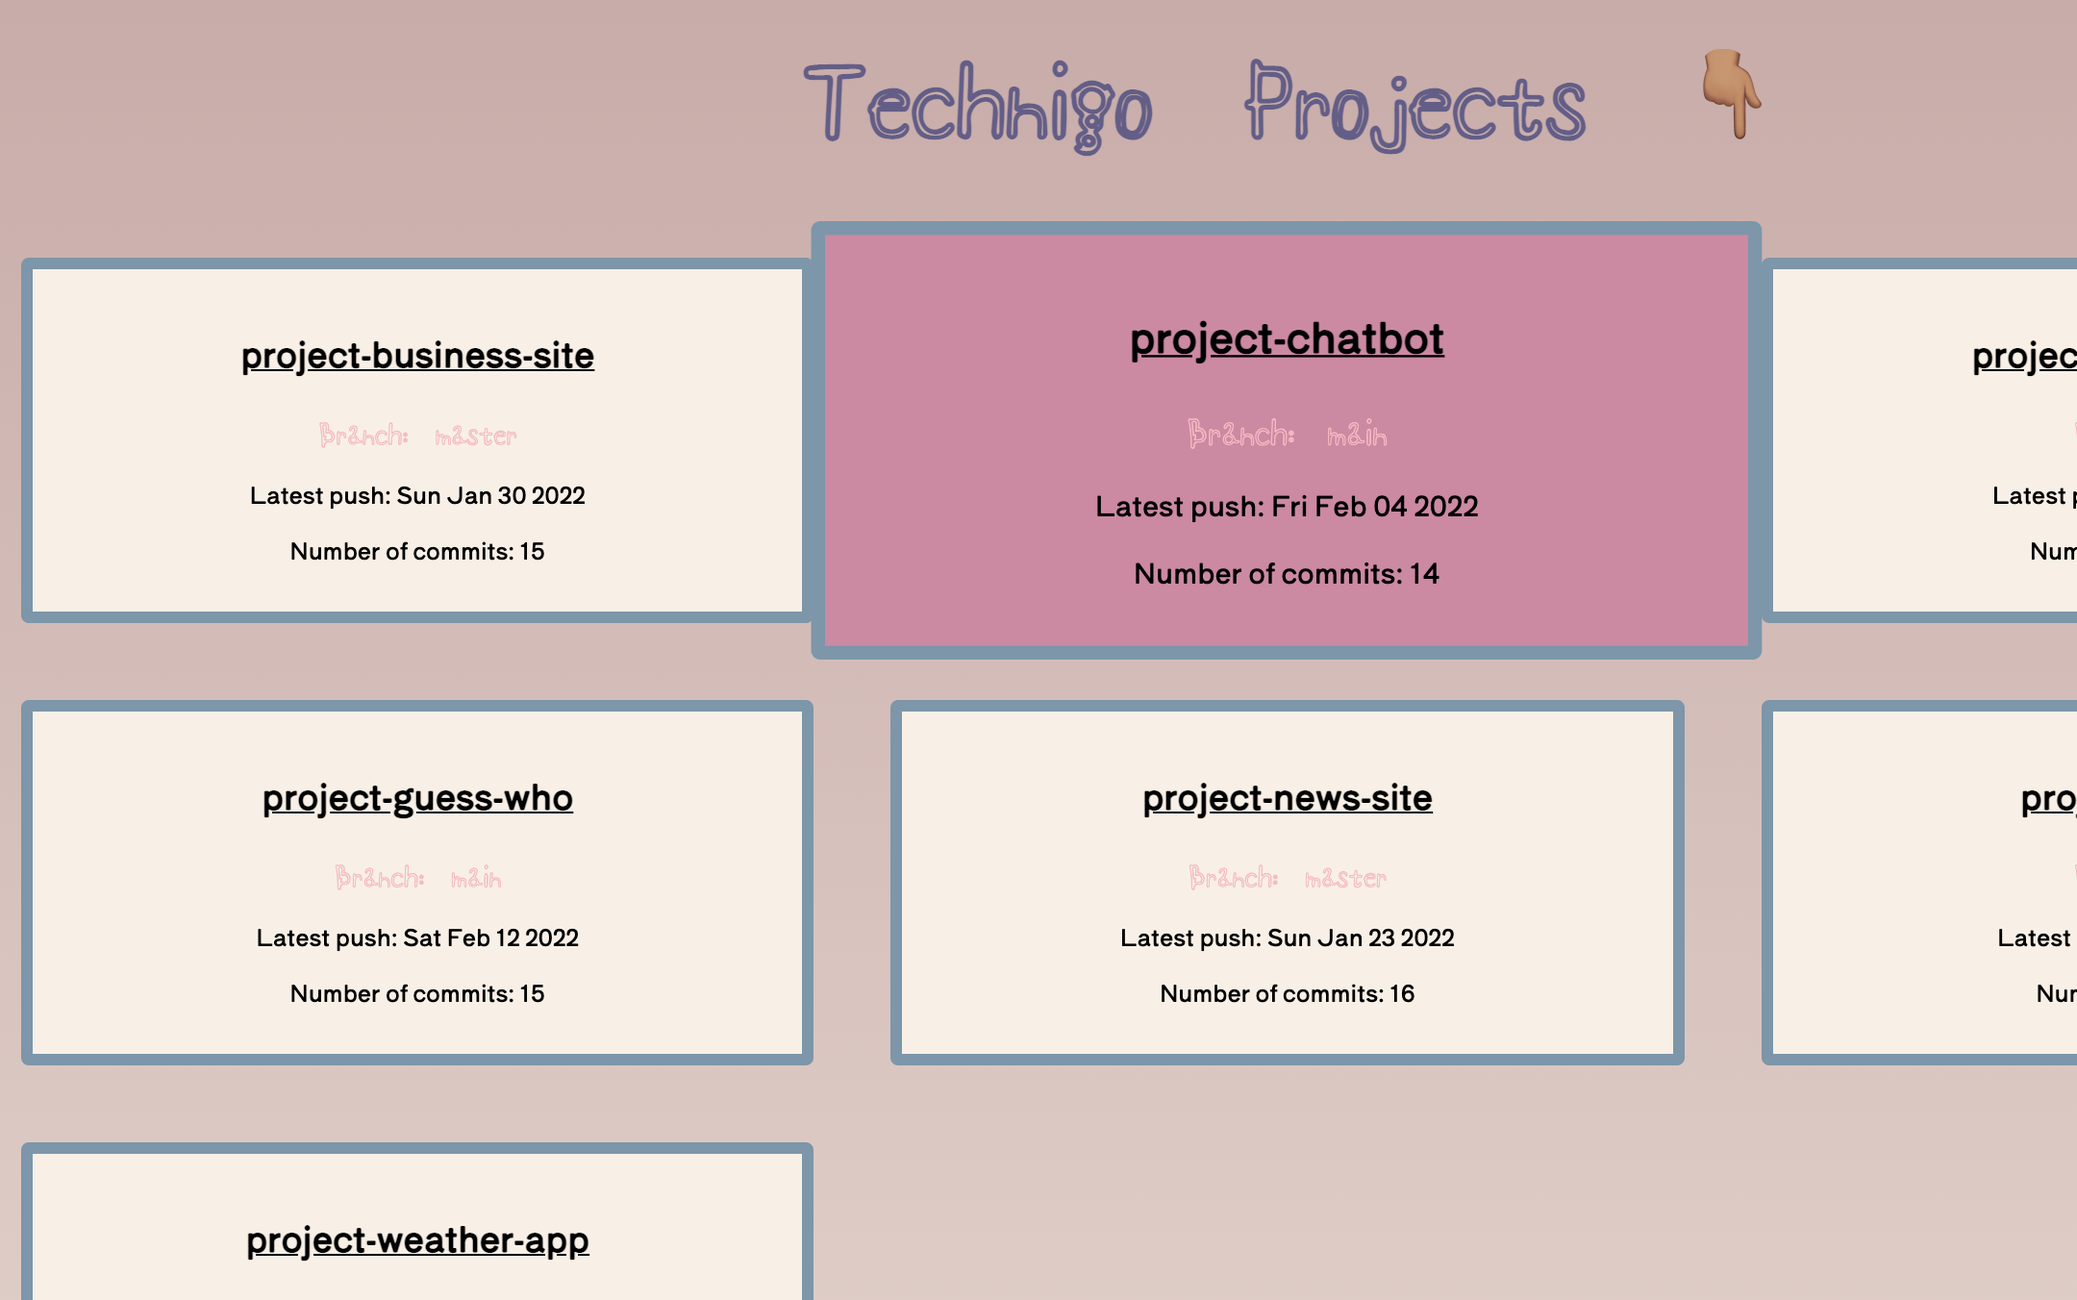
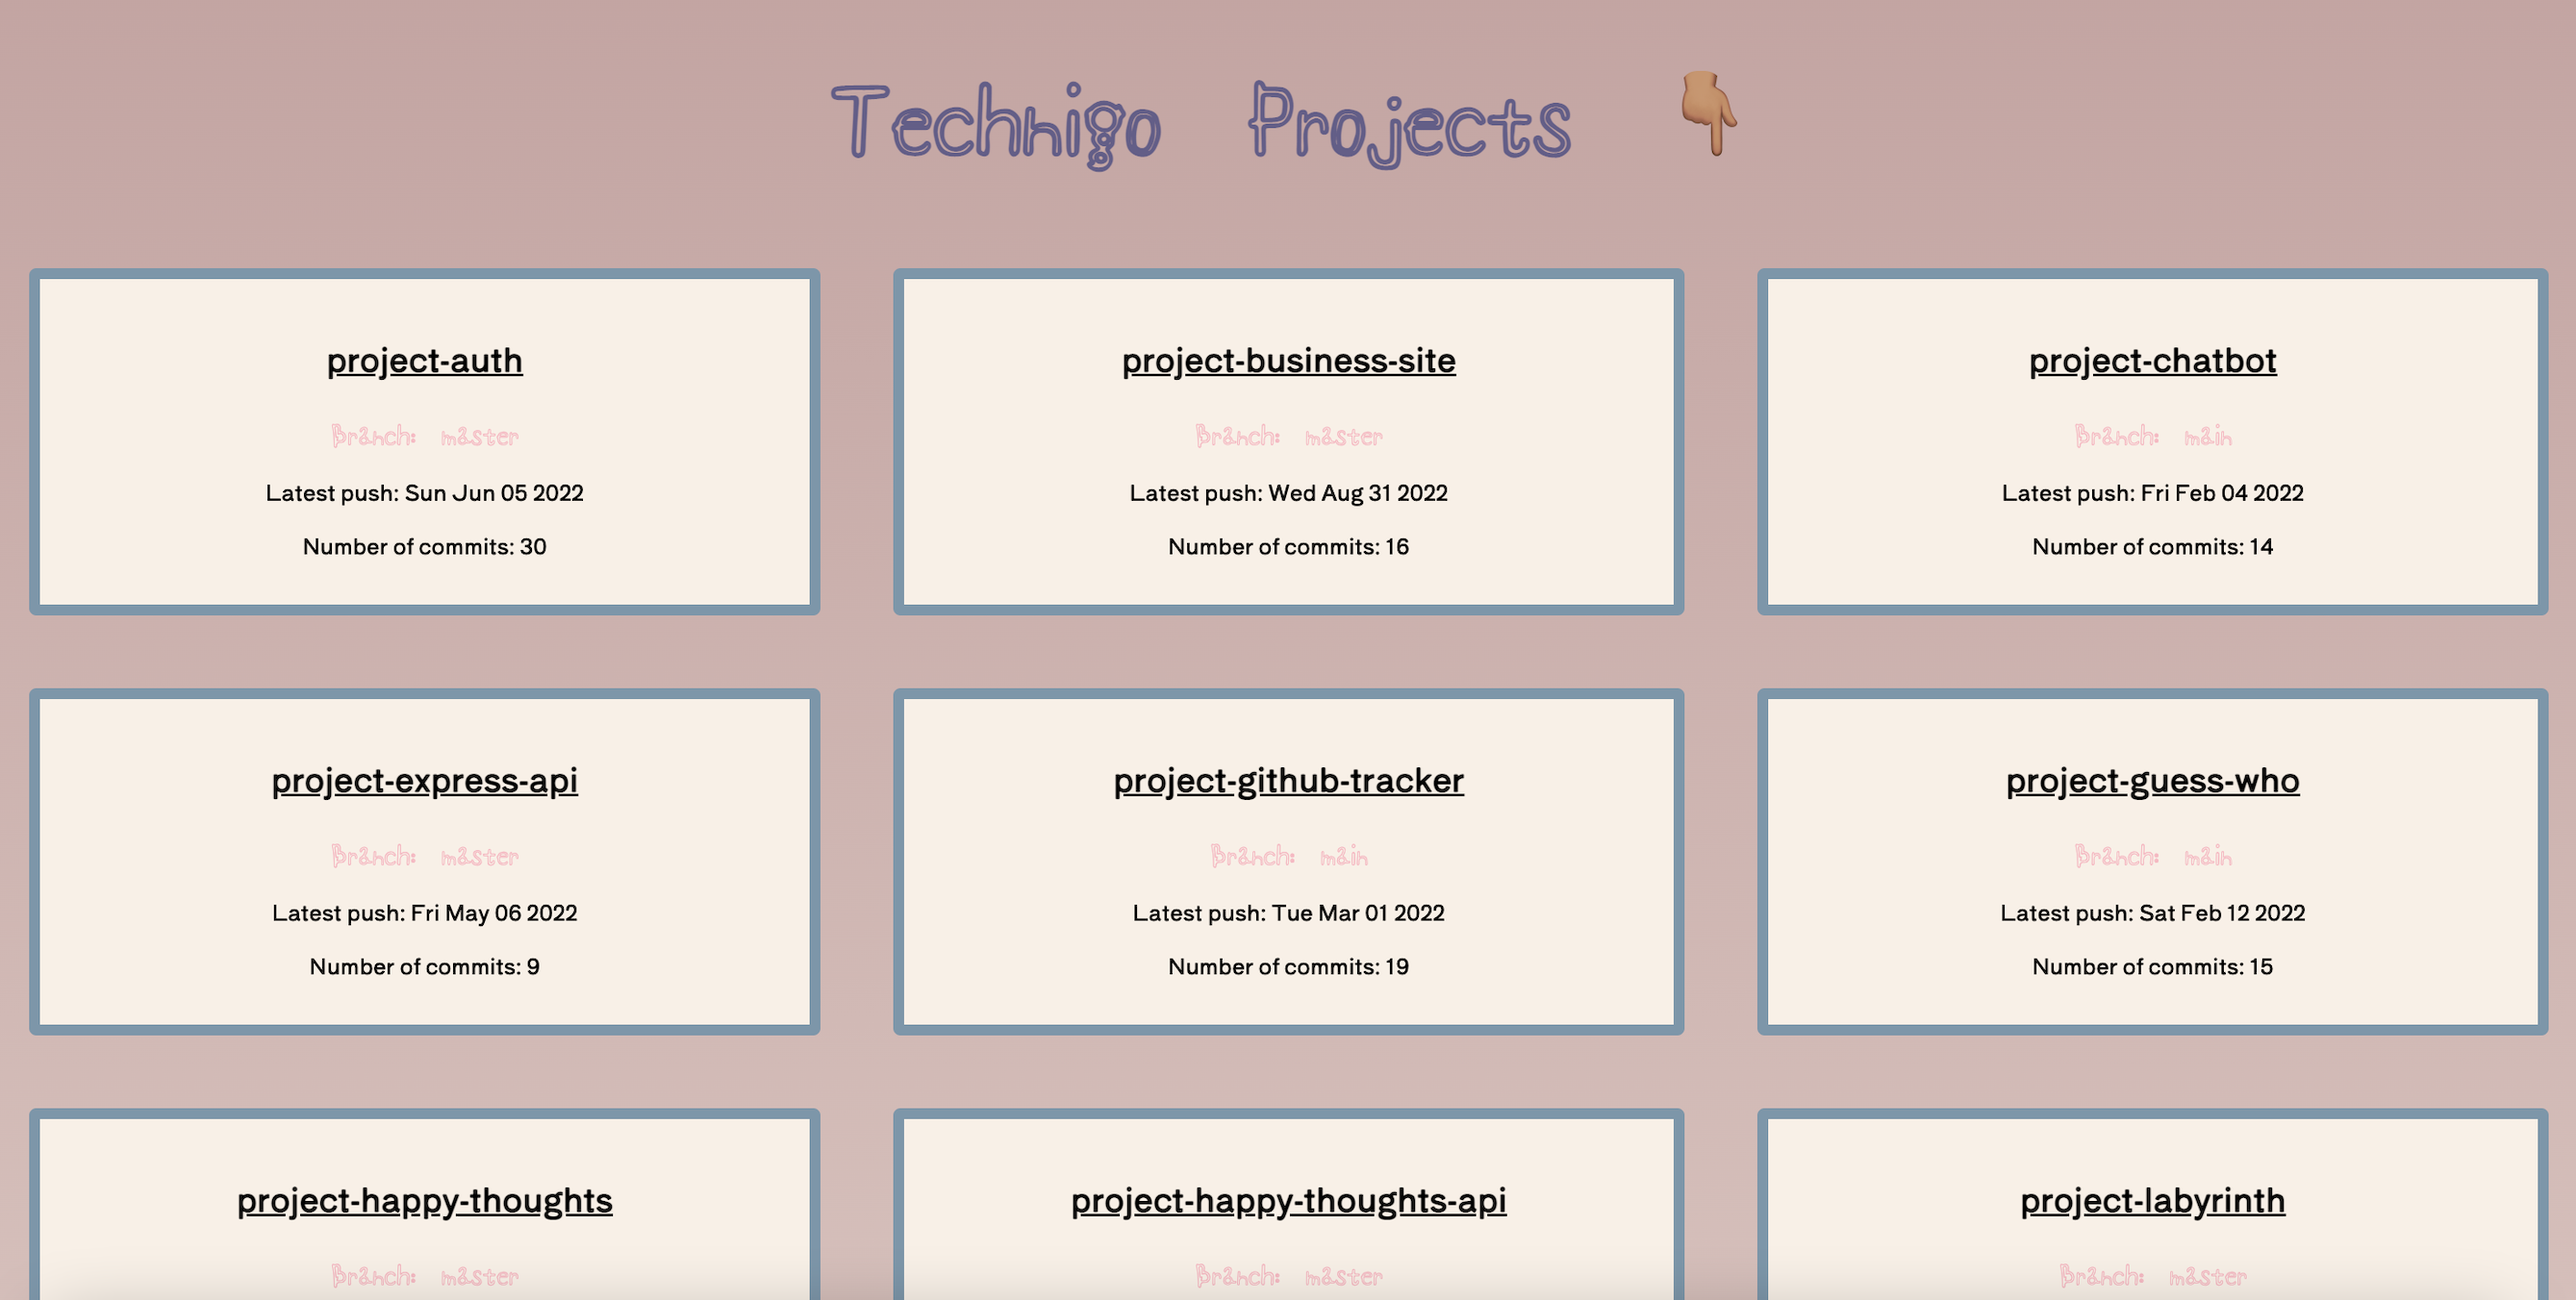
added projects, changed links etc.

diff --git a/code/index.html b/code/index.html
@@ -51,7 +51,7 @@
     <div class="container">
       <div class="tech-section">
         <h3 class="title-tech">TECH</h3>
-        <p>HTML, CSS, Flexbox, <span class="tech-pink">JavaScript</span>, ES6, JSX, <span class="tech-pink">React</span>, React Hooks, <span class="tech-pink">Redux</span>, Node.js, MongoDB, API:s, Web Accessibility, mob-programming, pair-programming, GitHub.
+        <p>HTML, CSS, Flexbox, <span class="tech-pink">JavaScript</span>, ES6, JSX, <span class="tech-pink">React</span>, React Hooks, <span class="tech-pink">Redux</span>, Node.js, MongoDB, C#, API:s, Web Accessibility, mob-programming, pair-programming, GitHub.
         </p>
       </div>
     </div>
@@ -65,26 +65,31 @@
 
         <div class="project">
           <div class="project-image-group">
-            <a href="https://github.com/CamillaHallberg/project-business-site" target="_blank">
-            <img class="project-image" src="assets/project-businessite.png" alt="Image of project business site"></a>
+            <a href="https://project-business-site-by-camilla.netlify.app/" target="_blank">
+            <img 
+            class="project-image" 
+            src="assets/project-business-site.png" 
+            alt="Image of project business site"></a>
           </div>
-
           <div class="project-text-group">
             <h4 class="project-heading">PROJECT BUSINESS SITE</h4>
-            <p class="project-description">A responsive website using HTML and CSS.</p>
+            <p class="project-description">A responsive website using HTML, CSS and a touch of JavaScript.</p>
             <div class="tags">
               <p class="tag">HTML5</p>
               <p class="tag">CSS3</p>
+              <p class="tag">JavaScript ES6</p>
             </div>
+            <p>Code <a href="https://github.com/CamillaHallberg/project-business-site" target="_blank">here.</a></p>
           </div>
         </div>
 
         <div class="project">
           <div class="project-image-group">
-            <a href="https://github.com/CamillaHallberg/project-github-tracker" target="_blank">
-            <img class="project-image" src="./assets/project-github-tracker.png" alt="Image of project github tracker"></a>
+            <a href="https://github-tracker-by-camilla.netlify.app/" target="_blank">
+            <img class="project-image" 
+            src="./assets/project-github-tracker.png" 
+            alt="Image of project github tracker"></a>
           </div>
-
           <div class="project-text-group">
             <h4 class="project-heading">PROJECT GITHUB TRACKER</h4>
             <p class="project-description">A tracker of my GitHub repositories, fetching data from API's.</p>
@@ -93,23 +98,28 @@
               <p class="tag">CSS3</p>
               <p class="tag">JavaScript ES6</p>
             </div>
+            <p>Code <a href="https://github.com/CamillaHallberg/project-github-tracker" target="_blank">here.</a></p>
           </div>
         </div>
 
         <div class="project desktop-only" >
           <div class="project-image-group">
-            <a href="https://github.com/CamillaHallberg/project-chatbot" target="_blank">
-            <img class="project-image" src="./assets/project-chatbot.png" alt="Image of project chatbot"></a>
+            <a href="https://the-happy-thoughts-project.netlify.app/" target="_blank">
+            <img class="project-image" src="./assets/project-happy-thoughts.png" alt="Image of project chatbot"></a>
           </div>
 
           <div class="project-text-group">
-            <h4 class="project-heading">PROJECT CHATBOT</h4>
-            <p class="project-description">A chatbot to book your next day taxi journey. Practice of JavaScript and pair-programming.</p>
+            <h4 class="project-heading">PROJECT HAPPY THOUGHTS</h4>
+            <p class="project-description">My own Twitter-like feed where you are welcome to share your happiness! 💛</p>
             <div class="tags">
               <p class="tag">HTML5</p>
               <p class="tag">CSS3</p>
               <p class="tag">JavaScript ES6</p>
+              <p class="tag">React</p>
+              <p class="tag">Node.js</p>
             </div>
+            <p>Frontend code <a href="https://github.com/CamillaHallberg/project-happy-thoughts" target="_blank">here.</a></p>
+            <p>Backend code <a href="https://github.com/CamillaHallberg/project-happy-thoughts-api" target="_blank">here.</a></p>
           </div>
         </div>
 

diff --git a/code/style.css b/code/style.css
@@ -117,6 +117,8 @@ a {
     width: 375px;
     height: 250px;
     border: 8px solid #FFF;
+    border-radius: 4px;
+    box-shadow: 8px 6px 6px;
 }
 
 .project-text-group {
@@ -131,7 +133,7 @@ a {
 .tag {
     background-color: #000;
     color: pink;
-    font-size: 14px;
+    font-size: 10px;
     padding: 4px;
     margin: 4px 6px 4px 0;
 }
